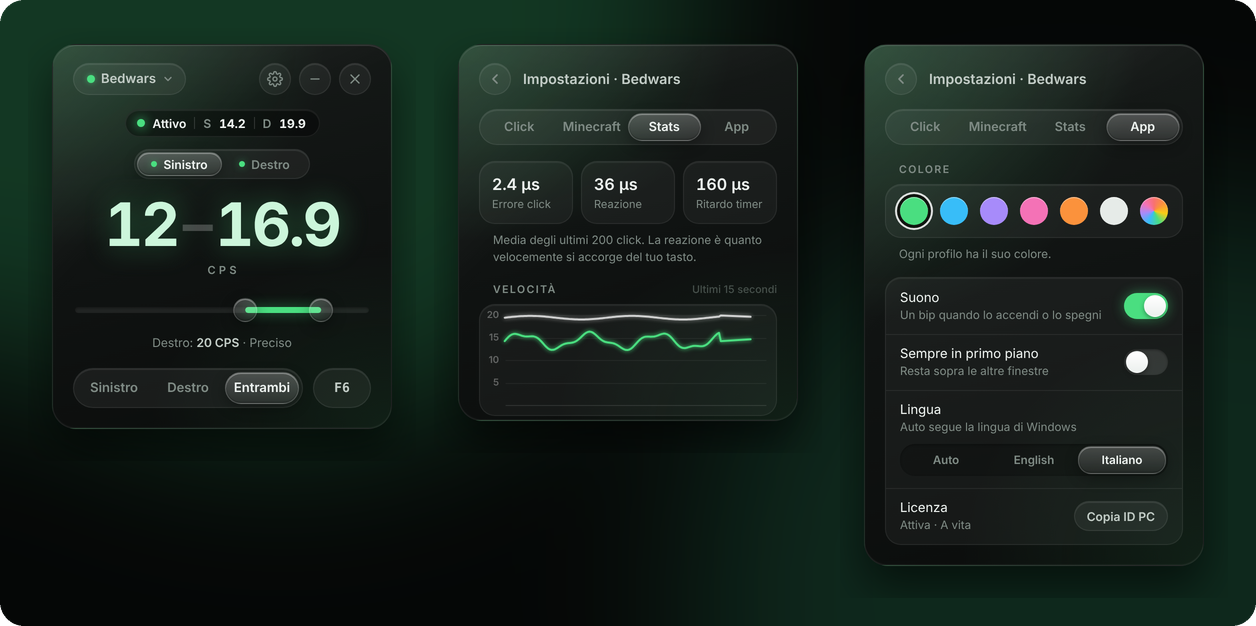
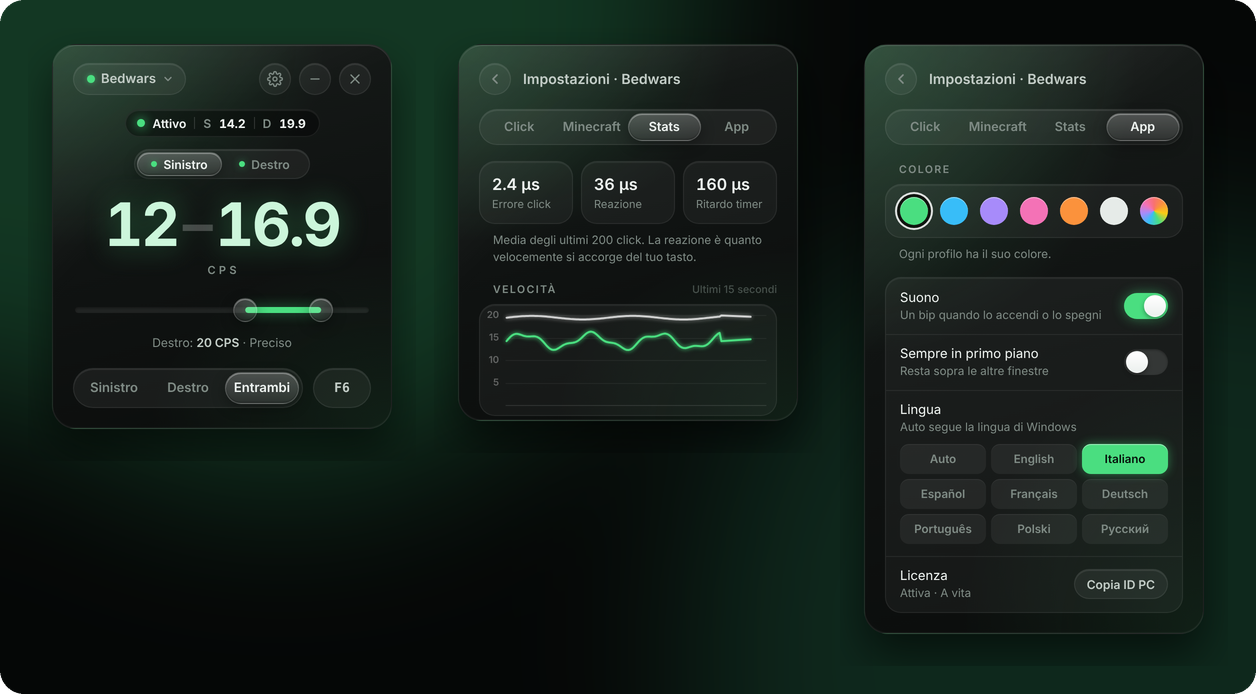
README: new screenshots, 8 languages

diff --git a/README.it.md b/README.it.md
@@ -12,6 +12,7 @@
 [![Download](https://img.shields.io/github/downloads/Riccardo-coder/Cadence/total?style=flat-square&label=download&color=1f2937)](../../releases)
 ![Windows](https://img.shields.io/badge/Windows-10%20%7C%2011-1f2937?style=flat-square)
 ![Minecraft](https://img.shields.io/badge/Minecraft-Java%20%26%20Bedrock-1f2937?style=flat-square)
+![Lingue](https://img.shields.io/badge/lingue-8-1f2937?style=flat-square)
 [![Discord](https://img.shields.io/badge/Discord-zuan1-5865F2?style=flat-square&logo=discord&logoColor=white)](#-acquista-cadence)
 
 <br>
@@ -37,6 +38,7 @@
 - ⚡ **Nessun ritardo.** Legge il mouse con Raw Input, quindi la tua mira non rallenta mai, anche a 8000 Hz.
 - 🧠 **Intelligente in gioco.** Si mette in pausa nei menu, tiene premuto quando scavi e segue i tuoi tasti della hotbar.
 - 🪶 **Leggero.** Circa 6 MB, 0% di CPU da spento, e si nasconde nella tray mentre giochi.
+- 🌍 **Parla la tua lingua.** Italiano, inglese, spagnolo, francese, tedesco, portoghese, polacco e russo, scelta in automatico da Windows.
 - 🔄 **Sempre aggiornato.** Le versioni nuove si installano con un clic, ognuna con l'elenco delle novità.
 - 🤝 **Assistenza diretta.** Parli con lo sviluppatore: `zuan1` su Discord.
 

diff --git a/README.md b/README.md
@@ -12,6 +12,7 @@
 [![Downloads](https://img.shields.io/github/downloads/Riccardo-coder/Cadence/total?style=flat-square&label=downloads&color=1f2937)](../../releases)
 ![Windows](https://img.shields.io/badge/Windows-10%20%7C%2011-1f2937?style=flat-square)
 ![Minecraft](https://img.shields.io/badge/Minecraft-Java%20%26%20Bedrock-1f2937?style=flat-square)
+![Languages](https://img.shields.io/badge/languages-8-1f2937?style=flat-square)
 [![Discord](https://img.shields.io/badge/Discord-zuan1-5865F2?style=flat-square&logo=discord&logoColor=white)](#-buy-cadence)
 
 <br>
@@ -37,6 +38,7 @@
 - ⚡ **No input lag.** It reads your mouse with Raw Input, so your aim is never slowed down, even at 8000 Hz.
 - 🧠 **Smart in game.** It pauses in menus, holds the click when you mine, and follows your own hotbar keys.
 - 🪶 **Light.** About 6 MB, 0% CPU when idle, and it hides to the tray while you play.
+- 🌍 **Speaks your language.** English, Italian, Spanish, French, German, Portuguese, Polish and Russian, picked automatically from Windows.
 - 🔄 **Always up to date.** New versions install with one click, each with its list of changes.
 - 🤝 **Direct support.** You talk to the developer: `zuan1` on Discord.
 
